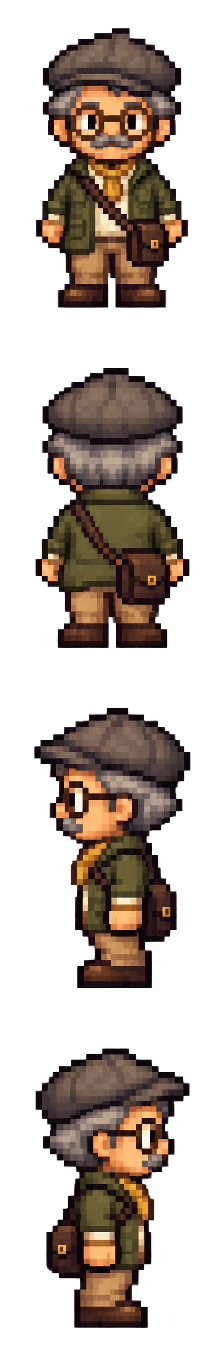
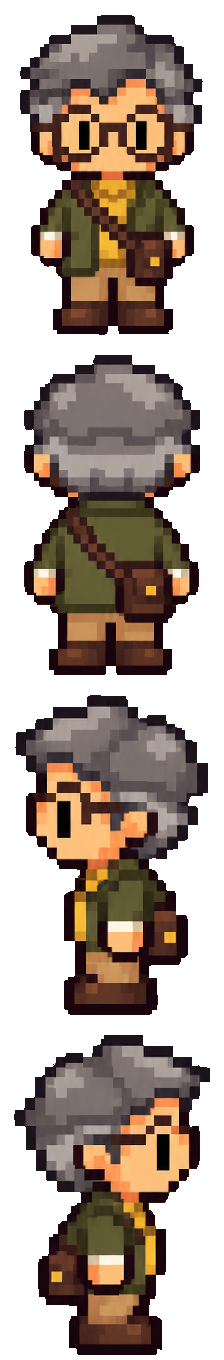
Redesign La Boca NPC sprites

diff --git a/Docs/Arte/Entregas/la_boca_npcs_simples_v01/README.md b/Docs/Arte/Entregas/la_boca_npcs_simples_v01/README.md
@@ -1,0 +1,21 @@
+# La Boca: NPC con acabado simple
+
+Rediseño del hincha, músico, guía, tendera y Chica Ana a partir de la pintora enviada como referencia. La pintora existente coincide con esa referencia y se conserva sin cambios. Cada persona mantiene un vestuario reconocible; se simplifican texturas, costuras, accesorios y rasgos pequeños.
+
+![Pintora, hincha, músico, guía, tendera y Ana; frente, espalda, izquierda y derecha](comparacion.png)
+
+## Integración
+
+- Se reemplazan los cinco PNG activos `Assets/Personajes/npc/LaBoca/*_detallada.png` correspondientes a esos personajes.
+- Contrato conservado: 224×1360 px, cuatro celdas de 224×340, orden abajo, arriba, izquierda, derecha.
+- Pies alineados en y=335 de cada celda, centro horizontal x=112. Alfa binario transparente, sin fondo pintado.
+- Los recursos `boca_*.tres` y los nodos de `Mapa.tscn` siguen usando sus rutas, recortes y escala 0,09 actuales. Diálogos, colisiones y lógica intactos.
+- Las fuentes generadas están en `ArteFuente/la_boca_npcs_simples_v01/`. Las entregas históricas de producción se conservan como versiones anteriores.
+
+## Procedencia y validación
+
+Arte generado con la herramienta integrada image_gen, una solicitud por personaje, usando la pintora como referencia de estilo y cada hoja anterior como referencia de identidad. No es dibujo manual ni una fuente vectorial editable. `prompts.json` registra las instrucciones completas. El empaquetado técnico se realizó con ImageMagick: separación por bandas de alfa, umbral de alfa al 50% para eliminar residuos casi transparentes, recorte, ajuste nearest a un máximo de 216×320, centrado y alineación del pie en celdas de 224×340.
+
+Se inspeccionaron visualmente las veinte poses y la comparación conjunta. Comprobaciones automáticas: dimensiones, alfa 0/255, cuatro poses no vacías sin cortes, pies alineados y regiones de los SpriteFrames dentro del PNG.
+
+Estado: archivos conectados a los recursos existentes; pendiente de prueba visual en Godot, que no está instalado en este entorno. La comparación es una hoja de revisión, no una captura del motor. En Godot, abrir `Escenas/Mapa.tscn`, revisar el tamaño junto al protagonista y hablar a cada personaje desde sus cuatro lados.
